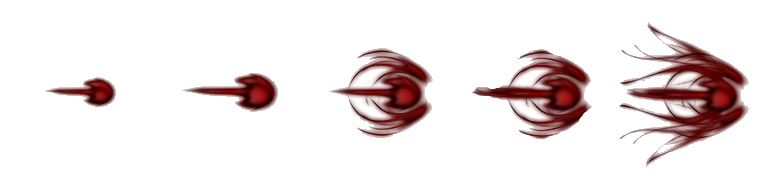
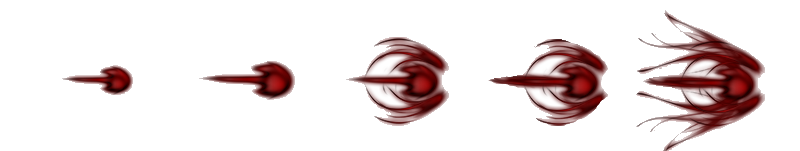
some css

Changed region(s): [[0.399, 0.0795, 0.9821, 1.0], [0.2148, 0.3709, 0.3683, 0.6623], [0.0614, 0.3974, 0.1841, 0.6358]]

diff --git a/style.css b/style.css
@@ -1,4 +1,23 @@
 /* ---Window & Main Body--- */
+@keyframes moveX1{
+    from{background-position-x:0px;}
+    to{background-position-x:-1800px;}
+  }
+@keyframes moveX2{
+    from{background-position-x:0px;}
+    to{background-position-x:-1380px;}
+  }
+@keyframes gradient {
+	0% {
+		background-position: 50% 0%;
+	}
+	50% {
+		background-position: 50% 100%;
+	}
+	100% {
+		background-position: 50% 0%;
+	}
+}
 * {
     margin: 0;
 }
@@ -54,12 +73,17 @@ header h1 {
 
 /* ---Player 1 & 2 Divs--- */
 .player1 {
-    background: #f76f718a;
+    background-image: url(images/bloody-background.png);
+    background-repeat: no-repeat, repeat;
+    background-color: #f76f718a;
     border: 5px solid #FFF699;
     border-radius: 20px;
     width: 38%;
     display: flex;
     box-shadow: 1px 1px 20px 1px #fb9e08;
+    /* background: linear-gradient(90deg, #ab0606, #ab0606, #ab0606, #fa0000, #f33f3f, #f15e5e, #FC9D9f, #ECB5B2, #DCD3CE, #cdeee6);
+    background-size: 500% 100%;
+    animation: gradient 10s ease infinite; */
 
 }
 .player2 {
@@ -72,6 +96,9 @@ header h1 {
     display: flex;
     flex-direction: row-reverse;
     box-shadow: 1px 1px 20px 1px #fb9e08;
+    /* background: linear-gradient(270deg, #ab0606, #ab0606, #ab0606, #fa0000, #f33f3f, #f15e5e, #FC9D9f, #ECB5B2, #DCD3CE, #cdeee6);
+    background-size: 500% 100%;
+    animation: gradient 5s ease infinite; */
 }
 .player2 > .player-info {
     display: flex;
@@ -95,18 +122,36 @@ header h1 {
     text-shadow: 3px 3px 3px rgb(255, 0, 242)
 }
 .avatar-pic {
-    height: 80%;
+    height: 15vh;
     border: 5px solid #FFF699;
     border-radius: 10px;
-    background: rgb(252, 219, 75);
-    overflow: hidden;
+
 }
 .avatar-pic img {
     object-fit: cover;
     width: 100%;
     height: 100%;
 }
-
+#ap1 {
+    background: linear-gradient(180deg, #ab0606, #ab0606, #ab0606, #fa0000, #f33f3f, #f15e5e, #FC9D9f, #ECB5B2, #DCD3CE, #cdeee6);
+    background-size: 500% 500%;
+    animation: gradient 5s ease infinite;
+    /* background-image : url(images/dog-crop.png);
+    background-size: cover;
+    background-repeat: no-repeat;
+    background-position: center;
+    animation: moveX1 2s steps(8) infinite; */
+}
+#ap2 {
+    background: linear-gradient(180deg, #ab0606, #ab0606, #ab0606, #fa0000, #f33f3f, #f15e5e, #FC9D9f, #ECB5B2, #DCD3CE, #cdeee6);
+    background-size: 500% 500%;
+    animation: gradient 5s ease infinite;
+    /* background-image : url(images/cat-crop-2.png);
+    background-size: cover;
+    background-repeat: no-repeat;
+    background-position: center;
+    animation: moveX2 2s steps(8) infinite; */
+}
 .control-panel {
     height: 60%;
 }

diff --git a/index.html b/index.html
@@ -21,8 +21,8 @@
             <div class="hud">
                 <div class="player1">
                     <div class="player-avatar">
-                        <div class="avatar-pic">
-                            <img src="images/blood-dog.png">
+                        <div class="avatar-pic" id="ap1">
+                            <img src="images/blood-dog-1.png">
                         </div>
                         <div>
                             <h1>Player 1</h1>
@@ -54,7 +54,7 @@
 
                 <div class="player2">
                     <div class="player-avatar">
-                        <div class="avatar-pic">
+                        <div class="avatar-pic" id="ap2">
                             <img src="/images/blood-cat.png">
                         </div>
                         <div>

diff --git a/index.js b/index.js
@@ -15,7 +15,6 @@ document.querySelector('.actual-time').innerHTML = `
   `
 startTimer()
 
-
 function onTimesUp() {
   clearInterval(timerInterval)
 }
@@ -78,7 +77,7 @@ let cat = new Image;
 cat.src = './images/Cat-2.png'
 
 let bloodBolt = new Image;
-bloodBolt.src = './images/blood-blast.png'
+bloodBolt.src = './images/blood-blast-2.png'
 
 /////////////////////////////
 //////Classes for game///////
@@ -269,7 +268,6 @@ class CanvasDisplay {
      this.createPlayer1 = new Player(50,50,100,100, dog)
      this.createPlayer2 = new Player(400,50,100,100, cat)
      this.createSpecialP1 = new SpecialAttack(2000, 2000, 300, 300, bloodBolt)
-     
      
     }
   
